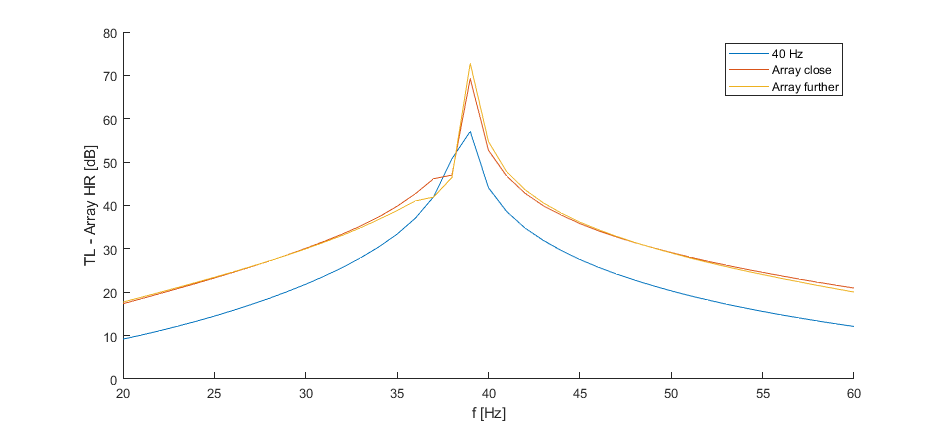
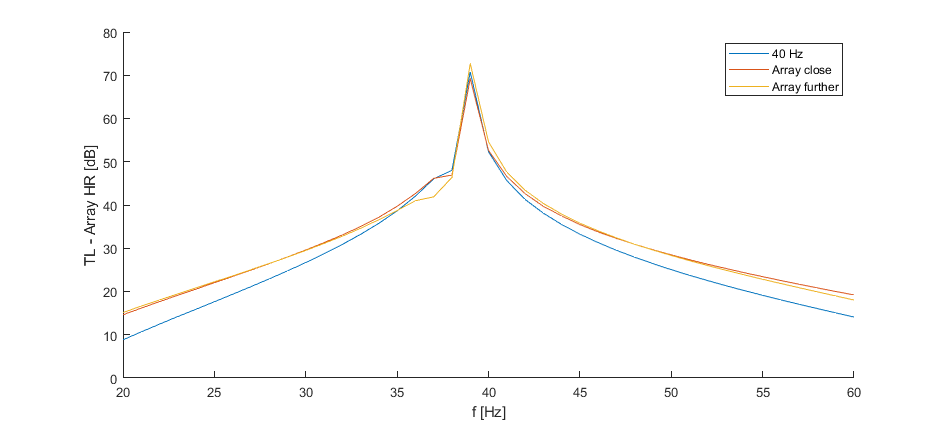
nog eens pusheb

diff --git a/Matlab/HR_design.m b/Matlab/HR_design.m
@@ -9,6 +9,11 @@ vel.helm1.B = read_vel(readtable('vel2h.csv','NumHeaderLines',1));
 vel.helm1.C = read_vel(readtable('vel3h.csv','NumHeaderLines',1));
 vel.helmv1.B = read_vel(readtable('vel2hv.csv','NumHeaderLines',1));
 vel.helmv1.C = read_vel(readtable('vel3hv.csv','NumHeaderLines',1));
+
+vel.helm_new.B = read_vel(readtable('velbh.csv','NumHeaderLines',1));
+vel.helm_new.C = read_vel(readtable('velch.csv','NumHeaderLines',1));
+vel.helm_newv.B = read_vel(readtable('velbhv.csv','NumHeaderLines',1));
+vel.helm_newv.C = read_vel(readtable('velchv.csv','NumHeaderLines',1));
 % array close
 vel.helm2.B = read_vel(readtable('vel2h1.csv','NumHeaderLines',1));
 vel.helm2.C = read_vel(readtable('vel3h1.csv','NumHeaderLines',1));
@@ -58,11 +63,11 @@ for i = 1:length(cte.fh)
     h = 0.060-l;
     l_eq = l +1.7*(D_neck/2);
     V = (cte.c/(2*pi*f_HR))^2*(S_s/l_eq); % volume for f_HR
-    width = V/(0.200*h+2*0.078*(0.038+l));
+    width = V/(0.200*h+2*0.078*(0.038+l_eq));
    
     R = 0.00;
-    Z_HR(i) = R + (1/S_s)*(1i*w*cte.rho_air*l_eq*S_s + (cte.rho_air*cte.c^2*S_s^2)/(1i*w*V)); % impedance Helmholtz Resonator
-    %Z_HR(i) = (1i*cte.rho_air)*(w*l - (cte.c^2*S_s)/(w*V)); % impedance Helmholtz Resonator
+    %Z_HR(i) = R + (1/S_s)*(1i*w*cte.rho_air*l_eq*S_s + (cte.rho_air*cte.c^2*S_s^2)/(1i*w*V)); % impedance Helmholtz Resonator
+    Z_HR(i) = (1i*cte.rho_air)*(w*l_eq - (cte.c^2*S_s)/(w*V)); % impedance Helmholtz Resonator
     %Z_HR = (1i*cte.rho_air*cte.c)*(S_vol*tan(k*l)*tan(k*h)-S_s)/(S_vol*tan(k*h)+S_s*tan(k*l)); % better impedance Helmholtz Resonator
     
     f_res = (cte.c/(2*pi))*sqrt(S_s/(l_eq*V));
@@ -84,30 +89,58 @@ for i = 1:length(cte.fh)
     %% TMM
     % 40 Hz
     [TL.HR_40(i), TM.HR_40(i,:,:)] = TL_HR(mic.helm1, vel.helm1, i);
+    %[TL.HR_40(i), TM.HR_40(i,:,:)] = TL_HR(mic.helm_new, vel.helm_new, i);
+    
+    cte.m1 = 0.065;
+    cte.s1 = 0.010;
+    cte.m2 = 0.320;
+    cte.s2 = 0.010;
+    cte.A3_wo = (mic.wo.C.p(i)*exp(1i*mic.wo.C.phase(i))*exp(1i*k*cte.s2)-mic.wo.D.p(i)*exp(1i*mic.wo.D.phase(i)))*exp(-1i*k*(cte.m2-cte.d))/(exp(1i*k*cte.s2)-exp(-1i*k*cte.s2));
+    TL.HR_method(i) = TL_helmholtz(mic.helm1, cte, i);
+    
     TM.HR(:,:) = TM.HR_40(i,:,:);
     TM.HR2(i,:,:) = TM.HR(:,:)^2;
+    TL.HR2(i)= 20*log10(abs(  TM.HR2(i,1,1) + (S_s/cte.c)*TM.HR2(i,1,2)  + (cte.c/S_s)*TM.HR2(i,2,1) + TM.HR2(i,2,2) )/2);
+    
     % array close
     [TL.HR_array_close(i), TM.HR_array_close(i,:,:)] = TL_HR(mic.helm2, vel.helm2, i);
+    
     % array further
 	[TL.HR_array_further(i), TM.HR_array_further(i,:,:)] = TL_HR(mic.helm3, vel.helm3, i); 
+    
     % 1 parallel
 	[TL.HR_parallel(i), TM.HR_parallel(i,:,:)] = TL_HR(mic.helm4, vel.helm4, i);
+    
     % array parallel
 	[TL.HR_parallel_array(i), TM.HR_parallel_array(i,:,:)] = TL_HR(mic.helm5, vel.helm5, i);
     
-    pi1(i) = mic.helm1.B.p(i)*10^6*exp(1i* mic.helm1.B.phase(i));
-    po1(i) = mic.helm1.C.p(i)*10^6*exp(1i* mic.helm1.C.phase(i));
-    pi2(i) = mic.helmv1.B.p(i)*10^6*exp(1i* mic.helmv1.B.phase(i));
-    po2(i) = mic.helmv1.C.p(i)*10^6*exp(1i* mic.helmv1.C.phase(i));
-    vi1(i) = vel.helm1.B.v(i)*exp(1i* vel.helm1.B.phase(i));
-    vo1(i) = vel.helm1.C.v(i)*exp(1i* vel.helm1.C.phase(i));
-    vi2(i) = -vel.helmv1.B.v(i)*exp(1i* vel.helmv1.B.phase(i));
-    vo2(i) = -vel.helmv1.C.v(i)*exp(1i* vel.helmv1.C.phase(i));
+    % with phase
+    pi1(i) = mic.helm_new.B.p(i)*10^6*exp(1i* mic.helm1.B.phase(i));
+    po1(i) = mic.helm_new.C.p(i)*10^6*exp(1i* mic.helm1.C.phase(i));
+    pi2(i) = mic.helm_newv.B.p(i)*10^6*exp(1i* mic.helmv1.B.phase(i));
+    po2(i) = mic.helm_newv.C.p(i)*10^6*exp(1i* mic.helmv1.C.phase(i));
+    vi1(i) = vel.helm_new.B.v(i)*exp(1i* vel.helm1.B.phase(i));
+    vo1(i) = vel.helm_new.C.v(i)*exp(1i* vel.helm1.C.phase(i));
+    vi2(i) = vel.helm_newv.B.v(i)*exp(1i* vel.helmv1.B.phase(i));
+    vo2(i) = vel.helm_newv.C.v(i)*exp(1i* vel.helmv1.C.phase(i));
     P = [po1(i), po2(i); vo1(i), vo2(i)];
     R = [pi1(i), pi2(i); vi1(i), vi2(i)];
     T(i,:,:) = P/R;
+    TL_withphase(i)= 20*log10(abs(  T(i,1,1) + (S_s/cte.c)*T(i,1,2)  + (cte.c/S_s)*T(i,2,1) + T(i,2,2) )/2);
     
-    TL_4eq(i)= 20*log10(abs(  T(i,1,1) + (S_s/cte.c)*T(i,1,2)  + (cte.c/S_s)*T(i,2,1) + T(i,2,2) )/2);
+    
+    p1(i) = mic.helm_new.B.p(i)*10^6*exp(1i* mic.helm1.B.phase(i));
+    p2(i) = mic.helm_new.C.p(i)*10^6*exp(1i* mic.helm1.C.phase(i));
+    v1(i) = vel.helm_new.B.v(i)*exp(1i* vel.helm1.B.phase(i));
+    v2(i) = vel.helm_new.C.v(i)*exp(1i* vel.helm1.C.phase(i));
+    P = [p2(i), p1(i); v2(i), -v1(i)];
+    R = [p1(i), p2(i); v1(i), -v2(i)];
+    T(i,:,:) = P/R;
+    TL_withphase(i)= 20*log10(abs(  T(i,1,1) + (S_s/cte.c)*T(i,1,2)  + (cte.c/S_s)*T(i,2,1) + T(i,2,2) )/2);
+    
+%     TM.HR(:,:) = T(i,:,:);
+%     TM.HR2(i,:,:) = TM.HR(:,:)^2;
+%     TL.HR2(i)= 20*log10(abs(  TM.HR2(i,1,1) + (S_s/cte.c)*TM.HR2(i,1,2)  + (cte.c/S_s)*TM.HR2(i,2,1) + TM.HR2(i,2,2) )/2);
     
     %[p1(i), p2(i)] = TL_helmholtz(mic.helm1, cte, i);
 end
@@ -119,8 +152,8 @@ disp(strcat('h: ',num2str(h)))
 disp(strcat('width: ',num2str(width)))
 
 figure(2), hold on
-plot(cte.fh, abs(TL.helmholtz1))
-plot(cte.fh, abs(TL.HR_40)), xlabel("f [Hz]"), ylabel("TL - Helmholtz resonator [dB]")
+plot(cte.fh, abs(TL.HR_method))
+plot(cte.fh, abs(TL_withphase)), xlabel("f [Hz]"), ylabel("TL - Helmholtz resonator [dB]")
 legend('Analytical', 'Numerical')
 
 % figure(3), hold on
@@ -131,7 +164,7 @@ legend('Analytical', 'Numerical')
 % legend('40 Hz', 'Array close', 'Array further')
 
 figure(4), hold on
-plot(cte.fh, abs(TL.HR_40))
+plot(cte.fh, abs(TL.HR2))
 plot(cte.fh, abs(TL.HR_array_close))
 plot(cte.fh, abs(TL.HR_array_further))
 xlabel("f [Hz]"), ylabel("TL - Array HR [dB]")
@@ -144,38 +177,40 @@ xlabel("f [Hz]"), ylabel("TL - Parallel HR [dB]")
 legend('1 parallel', 'Array parallel')
 
 figure(6), hold on
-plot(cte.fh, abs(TL_4eq))
+plot(cte.fh, abs(TL_withphase))
 plot(cte.fh, abs(TL.HR_40))
-legend('4 eq method', 'symmetry', 'amplidute')
+legend('mag and phase', 'mag only')
 
-figure(7)
-subplot(4,1,1), hold on
-plot(cte.fh, TM.HR2(:,1,1)),
-plot(cte.fh, TM.HR_array_close(:,1,1)),
-plot(cte.fh, TM.HR_array_further(:,1,1)),
-legend('40 Hz^2', 'Array close', 'Array further')
-subplot(4,1,2), hold on
-plot(cte.fh, TM.HR2(:,1,2)),
-plot(cte.fh, TM.HR_array_close(:,1,2)),
-plot(cte.fh, TM.HR_array_further(:,1,2)),
-legend('40 Hz^2', 'Array close', 'Array further')
-subplot(4,1,3), hold on
-plot(cte.fh, TM.HR2(:,2,1)),
-plot(cte.fh, TM.HR_array_close(:,2,1)),
-plot(cte.fh, TM.HR_array_further(:,2,1)),
-legend('40 Hz^2', 'Array close', 'Array further')
-subplot(4,1,4), hold on
-plot(cte.fh, TM.HR2(:,2,2))
-plot(cte.fh, TM.HR_array_close(:,2,2))
-plot(cte.fh, TM.HR_array_further(:,2,2))
-legend('40 Hz^2', 'Array close', 'Array further')
 
-figure(8), hold on
-plot(cte.fh, mic.helm1.B.p)
-plot(cte.fh, mic.helm2.B.p)
-plot(cte.fh, mic.helm3.B.p)
-xlabel('f'), ylabel('pressure')
-legend('40 Hz', 'Array close', 'Array further')
+% figure(7)
+% subplot(4,1,1), hold on
+% plot(cte.fh, TM.HR2(:,1,1)),
+% plot(cte.fh, TM.HR_array_close(:,1,1)),
+% plot(cte.fh, TM.HR_array_further(:,1,1)),
+% legend('40 Hz^2', 'Array close', 'Array further')
+% subplot(4,1,2), hold on
+% plot(cte.fh, TM.HR2(:,1,2)),
+% plot(cte.fh, TM.HR_array_close(:,1,2)),
+% plot(cte.fh, TM.HR_array_further(:,1,2)),
+% legend('40 Hz^2', 'Array close', 'Array further')
+% subplot(4,1,3), hold on
+% plot(cte.fh, TM.HR2(:,2,1)),
+% plot(cte.fh, TM.HR_array_close(:,2,1)),
+% plot(cte.fh, TM.HR_array_further(:,2,1)),
+% legend('40 Hz^2', 'Array close', 'Array further')
+% subplot(4,1,4), hold on
+% plot(cte.fh, TM.HR2(:,2,2))
+% plot(cte.fh, TM.HR_array_close(:,2,2))
+% plot(cte.fh, TM.HR_array_further(:,2,2))
+% legend('40 Hz^2', 'Array close', 'Array further')
+
+% figure(8), hold on
+% plot(cte.fh, vel.helm1.B.v)
+% plot(cte.fh, vel.helm_new.B.v)
+% plot(cte.fh, vel.helm_newv.B.v)
+% xlabel('f'), ylabel('velocity')
+% legend('old', 'new', 'new v')
+
 tilefigs
 
 %% Functions

diff --git a/Matlab/TL_helmholtz.m b/Matlab/TL_helmholtz.m
@@ -1,22 +1,22 @@
-function [A1, A3] = TL_helmholtz(mic, cte, i)
-fh = cte.fh(i);
-k = 2*pi*fh/cte.c;
-
-A1 = (mic.A.p(i)*exp(1i*mic.A.phase(i))*exp(1i*k*cte.s1)-mic.B.p(i)*exp(1i*mic.B.phase(i)))*exp(-1i*k*(cte.m1+cte.s1))/(exp(1i*k*cte.s1)-exp(-1i*k*cte.s1)); % amp inlet
-A3 = (mic.C.p(i)*exp(1i*mic.C.phase(i))*exp(1i*k*cte.s2)-mic.D.p(i)*exp(1i*mic.D.phase(i)))*exp(-1i*k*(cte.m2-cte.d))/(exp(1i*k*cte.s2)-exp(-1i*k*cte.s2)); % amp outlet
-%A3 = mic.C.p(i);
-    
-end
-
-% function [ILh, TLh] = TL_helmholtz(mic, cte, i)
+% function [A1, A3] = TL_helmholtz(mic, cte, i)
 % fh = cte.fh(i);
 % k = 2*pi*fh/cte.c;
 % 
 % A1 = (mic.A.p(i)*exp(1i*mic.A.phase(i))*exp(1i*k*cte.s1)-mic.B.p(i)*exp(1i*mic.B.phase(i)))*exp(-1i*k*(cte.m1+cte.s1))/(exp(1i*k*cte.s1)-exp(-1i*k*cte.s1)); % amp inlet
 % A3 = (mic.C.p(i)*exp(1i*mic.C.phase(i))*exp(1i*k*cte.s2)-mic.D.p(i)*exp(1i*mic.D.phase(i)))*exp(-1i*k*(cte.m2-cte.d))/(exp(1i*k*cte.s2)-exp(-1i*k*cte.s2)); % amp outlet
 % %A3 = mic.C.p(i);
-% 
-% ILh = 20*log10(abs(cte.A3_wo/A3));
-% TLh = 10*log10(abs(A1/A3)^2); %10*log(abs((mic_A.p(i)/mic_C.p(i))^2))
 %     
 % end
+
+function [ILh, TLh] = TL_helmholtz(mic, cte, i)
+fh = cte.fh(i);
+k = 2*pi*fh/cte.c;
+
+A1 = (mic.A.p(i)*exp(1i*mic.A.phase(i))*exp(1i*k*cte.s1)-mic.B.p(i)*exp(1i*mic.B.phase(i)))*exp(-1i*k*(cte.m1+cte.s1))/(exp(1i*k*cte.s1)-exp(-1i*k*cte.s1)); % amp inlet
+A3 = (mic.C.p(i)*exp(1i*mic.C.phase(i))*exp(1i*k*cte.s2)-mic.D.p(i)*exp(1i*mic.D.phase(i)))*exp(-1i*k*(cte.m2-cte.d))/(exp(1i*k*cte.s2)-exp(-1i*k*cte.s2)); % amp outlet
+%A3 = mic.C.p(i);
+
+ILh = 20*log10(abs(cte.A3_wo/A3));
+TLh = 10*log10(abs(A1/A3)^2); %10*log(abs((mic_A.p(i)/mic_C.p(i))^2))
+    
+end
